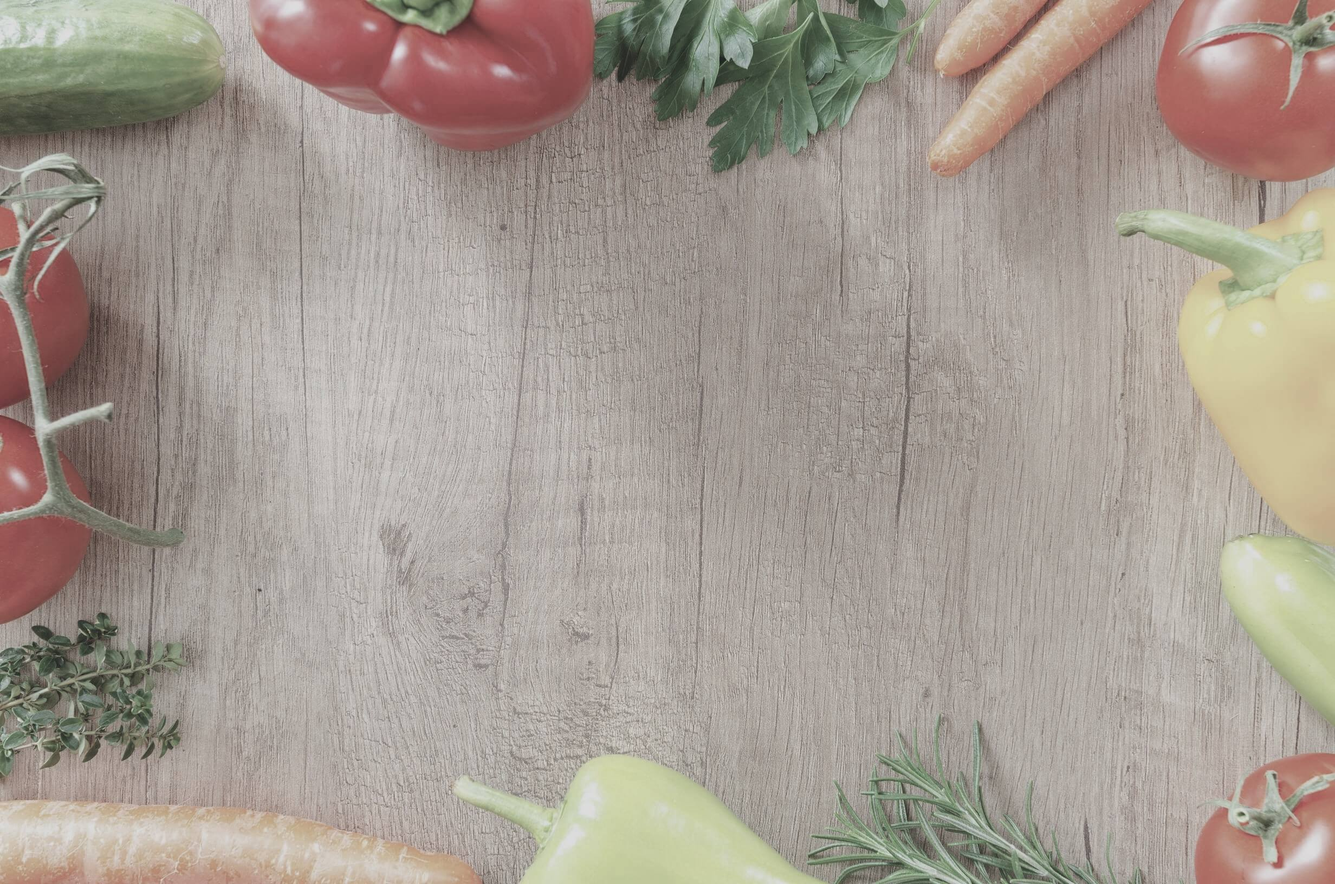
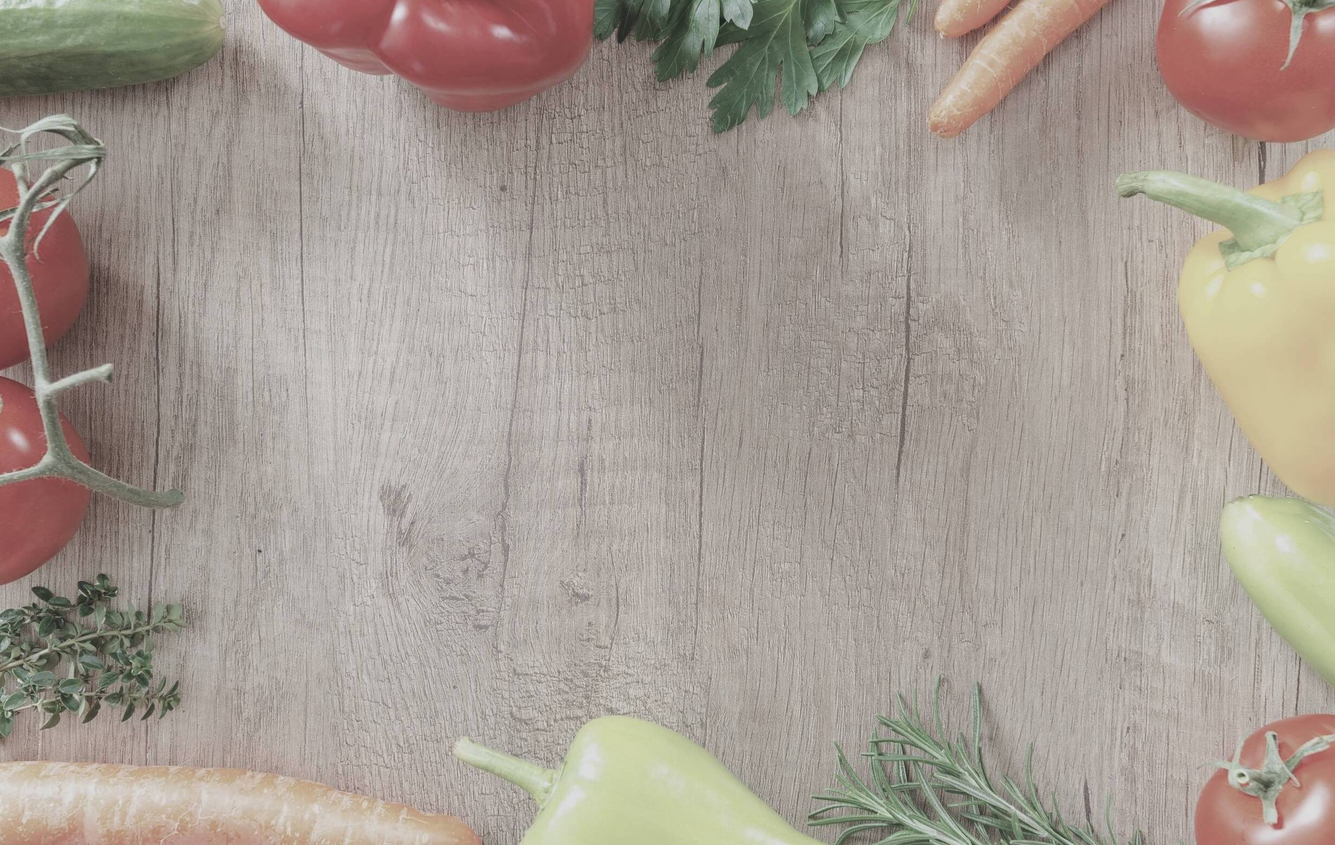
Updated consistent bg

diff --git a/app/public/stylesheets/style.css b/app/public/stylesheets/style.css
@@ -12,33 +12,19 @@ body {
   background: URL("../images/cuttingboard.min.jpg") no-repeat;
   background-size: cover;
   background-position: center;
-background-attachment: fixed;
+  background-attachment: fixed;
 }
 
-.bg-shade {
-  background: URL("../images/cuttingboard-shade.min.jpg") no-repeat;
+.bg-cover-faded {
+  background: URL("../images/cuttingboard.faded.jpg") no-repeat;
   background-size: cover;
   background-position: center;
   background-attachment: fixed;
 }
 
-.bg-cover-faded:before {
-  content: '';
-  background: inherit;
-  position: absolute;
-  top: 0;
-  left: 0;
-  right: 0;
-  bottom: 0;
-  -webkit-filter: saturate(.55) brightness(115%) blur(3px);
-  -webkit-filter: saturate(.55) brightness(115%) blur(3px);
-  -moz-filter: saturate(.55) brightness(115%) blur(3px);
-  filter: saturate(.55) brightness(115%) blur(3px);
-  z-index: -100;
-}
 
 body:not(.admin) > [class^="container"] {
-  padding: 60px 15px 0;
+  padding: 150px 15px 0;
 }
 
 
@@ -599,7 +585,8 @@ td.record-actions {
  */
 
 body.bg-cover:not(.bg-shade) h1 {
-  text-shadow: 2px 2px 2px rgba(22, 22, 22, .4);
+  /* text-shadow: 2px 2px 2px rgba(22, 22, 22, .4); */
+  /* text-shadow: 3px 2px 2px rgba(255, 255, 255, .2); */
 }
 
 p.keep-spacing {
